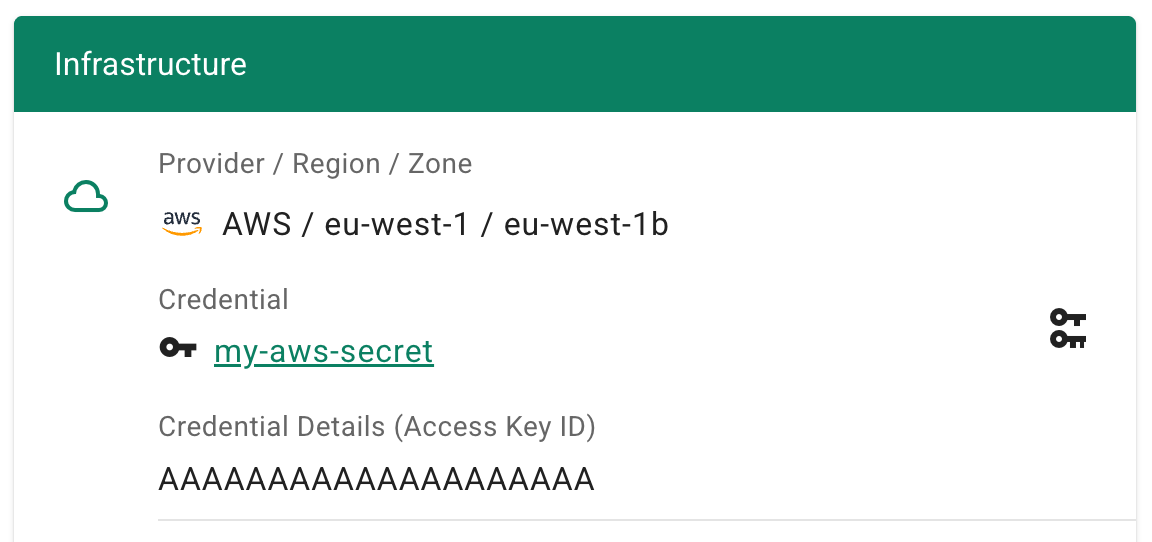
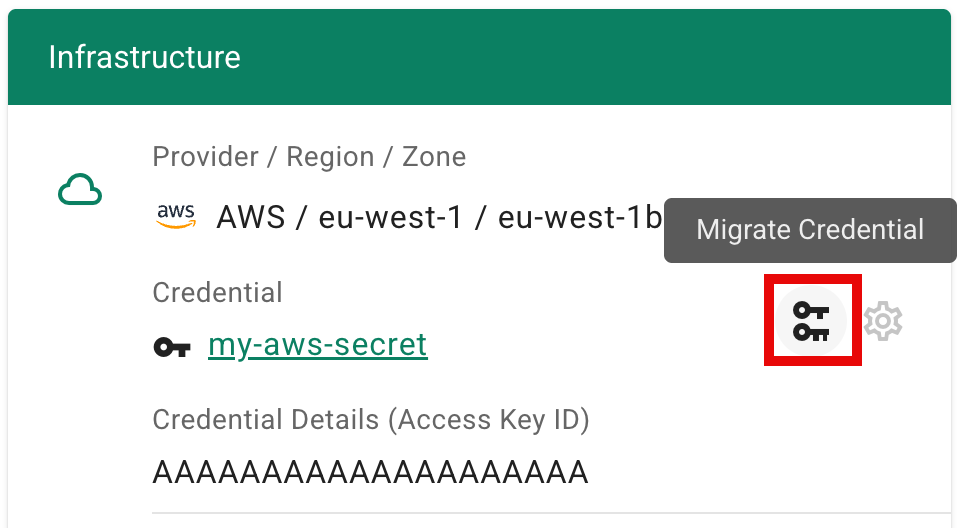
PR Feedback

diff --git a/frontend/src/components/Credentials/GSecretDialogMigration.vue b/frontend/src/components/Credentials/GSecretDialogMigration.vue
@@ -36,7 +36,7 @@ SPDX-License-Identifier: Apache-2.0
               <div class="d-flex align-center">
                 <div class="d-flex flex-column">
                   <v-chip
-                    v-tooltip:top="`Used by ${secretUsageCount} cluster${secretUsageCount === 1 ? '' : 's'}`"
+                    v-tooltip:top="'Deprecated SecretBinding that needs to be migrated'"
                     tile
                     color="primary"
                     class="my-1"
@@ -101,14 +101,14 @@ SPDX-License-Identifier: Apache-2.0
               variant="tonal"
             >
               <p>
-                The Secret referenced by this deprecated SecretBinding <code>{{ secretName }}</code> has been migrated and is referenced by the following CredentialsBindings:
+                Step 1 complete: The following CredentialsBindings reference the same Secret as this deprecated SecretBinding <code>{{ secretName }}</code>:
               </p>
               <v-chip
                 v-for="bindingName in credentialsBindingNamesForSecretBinding"
                 :key="bindingName"
                 class="mr-2"
                 size="small"
-                prepend-icon="mdi-key"
+                prepend-icon="mdi-key-outline"
               >
                 {{ bindingName }}
               </v-chip>
@@ -133,10 +133,17 @@ SPDX-License-Identifier: Apache-2.0
                 {{ name }}
               </v-chip>
               <p class="mt-2">
-                Please change these clusters to use a CredentialsBinding instead.
+                Step 2 required: Change these clusters to use a CredentialsBinding.
               </p>
               <p>
-                You can do this on the cluster details page using the migration button on the infrastructure card.
+                Follow
+                the
+                <g-external-link
+                  url="https://github.com/gardener/dashboard/blob/master/docs/usage/migrate-secret-bindings.md#step-2-migrate-clusters"
+                >
+                  Migrate Clusters
+                </g-external-link>
+                steps in the documentation.
               </p>
             </v-alert>
           </div>
@@ -197,16 +204,15 @@ import { useCredentialsBindingContext } from '@/composables/credential/useCreden
 import { errorDetailsFromError } from '@/utils/error' // adjust path
 
 const props = defineProps({
-  modelValue: {
-    type: Boolean,
-    required: true,
-  },
   binding: {
     type: Object,
   },
 })
 
-const emit = defineEmits(['update:modelValue'])
+const visible = defineModel({
+  type: Boolean,
+  required: true,
+})
 
 const logger = inject('logger')
 
@@ -216,7 +222,6 @@ const {
   resourceName: secretBindingName,
   credentialName: secretName,
   credentialNamespace: secretNamespace,
-  credentialUsageCount: secretUsageCount,
   providerType: secretProviderType,
   credentialsBindingNamesForSecretBinding,
   credentialUsageCount,
@@ -243,11 +248,6 @@ const detailedErrorMessage = ref()
 
 const createStep = computed(() => {
   return credentialsBindingNamesForSecretBinding.value.length === 0
-})
-
-const visible = computed({
-  get: () => props.modelValue,
-  set: value => emit('update:modelValue', value),
 })
 
 const title = computed(() => {

diff --git a/frontend/src/components/Credentials/GShootCredentialConfiguration.vue b/frontend/src/components/Credentials/GShootCredentialConfiguration.vue
@@ -32,7 +32,7 @@ SPDX-License-Identifier: Apache-2.0
               The CredentialsBinding must reference the same Secret as the currently used SecretBinding.
             </p>
             <p>
-              <g-external-link url="https://github.com/gardener/dashboard/blob/master/docs/usage/migrate-secret-bindings.md">
+              <g-external-link url="https://github.com/gardener/dashboard/blob/master/docs/usage/migrate-secret-bindings.md#migration-steps">
                 More Information
               </g-external-link>
             </p>
@@ -47,7 +47,7 @@ SPDX-License-Identifier: Apache-2.0
               There are no available CredentialsBindings to migrate to. Please create a CredentialsBinding that references the same Secret as the currently used SecretBinding before you can migrate.
             </p>
             <p>
-              <g-external-link url="https://github.com/gardener/dashboard/blob/master/docs/usage/migrate-secret-bindings.md">
+              <g-external-link url="https://github.com/gardener/dashboard/blob/master/docs/usage/migrate-secret-bindings.md#step-1-create-a-credentialsbinding-for-a-secretbinding">
                 More Information
               </g-external-link>
             </p>
@@ -143,6 +143,6 @@ function credentialFilterFn (credential) {
     return true
   }
   // shootCloudProviderBinding is a secret binding in migration mode
-  return shootCloudProviderBinding.value.secretRef.name === credential.credentialsRef.name
+  return shootCloudProviderBinding.value.secretRef.name === credential.credentialsRef.name && credential.credentialsRef.kind === 'Secret'
 }
 </script>

diff --git a/frontend/src/components/NewShoot/GNewShootDetails.vue b/frontend/src/components/NewShoot/GNewShootDetails.vue
@@ -171,12 +171,15 @@ export default {
 
     const kubernetesVersionRules = {
       required,
-      noSecreTbinding: withMessage('The selected version requires a CredentialsBinding. You can migrate your SecretBinding to a CredentialsBinding on the Credentials page', function (version) {
+      noSecretBindingForSelectedVersion: withMessage('The selected version requires a CredentialsBinding. You can migrate your SecretBinding to a CredentialsBinding on the Credentials page', function (version) {
         if (!version || !semver.valid(version)) {
           return true
         }
         const currentMinorVersion = semver.minor(version)
-        return !(!this.workerless && isSecretBinding(this.infrastructureBinding) && currentMinorVersion > 33)
+        const usesSecretBinding = isSecretBinding(this.infrastructureBinding)
+        const requiresCredentialsBinding = currentMinorVersion >= 34
+        const noSecretBindingForSelectedVersion = !this.workerless && usesSecretBinding && requiresCredentialsBinding
+        return !noSecretBindingForSelectedVersion
       }),
     }
     rules.kubernetesVersion = withFieldName('Kubernetes Version', kubernetesVersionRules)

diff --git a/frontend/src/components/ShootVersion/GShootVersionUpdate.vue b/frontend/src/components/ShootVersion/GShootVersionUpdate.vue
@@ -139,7 +139,7 @@ export default {
     const rules = {
       selectedItem: withFieldName('Kubernetes Version', {
         required,
-        noSecretBinding: withMessage('The selected version requires changes to your cluster before you can upgrade', function () {
+        noSecretBindingForSelectedVersion: withMessage('The selected version requires changes to your cluster before you can upgrade', function () {
           return !this.needsMigration
         }),
       }),

diff --git a/frontend/src/components/ShootDetails/GShootInfrastructureCard.vue b/frontend/src/components/ShootDetails/GShootInfrastructureCard.vue
@@ -50,7 +50,8 @@ SPDX-License-Identifier: Apache-2.0
             migration-mode
           />
           <g-credential-configuration
-            v-else
+            :disabled="!!shootSecretBindingName"
+            :tooltip="!!shootSecretBindingName ? 'Credential migration to a CredentialsBinding is required' : undefined"
           />
         </template>
       </g-list-item>

diff --git a/docs/usage/migrate-secret-bindings.md b/docs/usage/migrate-secret-bindings.md
@@ -13,9 +13,9 @@ Follow [this](https://github.com/gardener/gardener/blob/master/docs/usage/shoot-
     * [Important Version Change](#important-version-change)
     * [How to Distinguish Binding Types](#how-to-distinguish-binding-types)
   * [Migration Steps](#migration-steps)
-    * [Create a CredentialsBinding for a SecretBinding](#create-a-credentialsbinding-for-a-secretbinding)
-    * [Migrate Clusters](#migrate-clusters)
-    * [Cleanup](#cleanup)
+    * [Step 1: Create a `CredentialsBinding` for a `SecretBinding`](#step-1-create-a-credentialsbinding-for-a-secretbinding)
+    * [Step 2: Migrate Clusters](#step-2-migrate-clusters)
+    * [Step 3: Cleanup](#step-3-cleanup)
 
 
 
@@ -39,10 +39,10 @@ They are directly visible in the Dashboard.
 
 Infrastructure credentials are always created as a **pair**:
 
-1. A **CredentialsBinding** resource
-2. A referenced **Secret** or **WorkloadIdentity** resource
+1. A `CredentialsBinding` resource
+2. A referenced `Secret` or `WorkloadIdentity` resource
 
-The **CredentialsBinding** is the resource that is referenced by the Shoot cluster.
+The `CredentialsBinding` is the resource that is referenced by the Shoot cluster.
 
 The underlying `Secret` or `WorkloadIdentity`:
 
@@ -67,7 +67,13 @@ You can identify the binding type in the Dashboard:
 
 ## Migration Steps
 
-### Create a CredentialsBinding for a SecretBinding
+The migration consists of three steps:
+
+1. [Create a `CredentialsBinding` for each existing `SecretBinding`](#step-1-create-a-credentialsbinding-for-a-secretbinding).
+2. [Update all Shoots that still reference a `SecretBinding` to use the new `CredentialsBinding`](#step-2-migrate-clusters).
+3. [Delete old `SecretBinding` resources after all Shoots have been migrated](#step-3-cleanup).
+
+### Step 1: Create a `CredentialsBinding` for a `SecretBinding`
 
 On the **Credentials** page, SecretBindings now have an additional action button:
 
@@ -77,43 +83,35 @@ Clicking this button opens a dialog where you can create a new `CredentialsBindi
 
 When clicking **CREATE CREDENTIALSBINDING**:
 
-* The Dashboard attempts to create a `CredentialsBinding`
+* The Dashboard creates a `CredentialsBinding`
 * It uses the **same name** as the existing `SecretBinding`
 * It references the same underlying `Secret`
 
 <img width="600" src="../images/sb-migration-dialog-1.png">
 
-After successful creation, the dialog displays an overview of clusters that still need to be migrated.
-
-If:
-
-* A `CredentialsBinding` referencing the same Secret already exists, or
-* You reopen the dialog later,
-
-the dialog will show the current migration status.
+After creation, the dialog shows the current migration status, including an overview of clusters that still need to be migrated.
 
 <img width="600" src="../images/sb-migration-dialog-2.png">
 
-### Migrate Clusters
+### Step 2: Migrate Clusters
 
 After creating `CredentialsBinding` resources for your `SecretBindings`, you must update your Shoots.
 
 To migrate a Shoot:
 
-1. Open the **cluster details page**
-2. Click the button next to the credential information
+1. Navigate to the **cluster details page**
+2. Click the key-change icon button (**Migrate Credential**) next to the credential information
 3. A dialog opens where you can select a `CredentialsBinding`
 
 You can only select a `CredentialsBinding` that references the **same Secret** as the currently used `SecretBinding`.
-
-If no suitable binding is shown:
-
-* Ensure that you successfully created a `CredentialsBinding` for the corresponding `SecretBinding` on the **Credentials** page.
 
 <img width="600" src="../images/sb-migration-shoot-1.png">
 
 <img width="600" src="../images/sb-migration-shoot-2.png">
 
-## Cleanup
+> [!NOTE]
+> If no suitable binding is shown, ensure that you completed [Step 1](#step-1-create-a-credentialsbinding-for-a-secretbinding) and created a `CredentialsBinding` for the corresponding `SecretBinding` on the **Credentials** page.
 
-After all clusters referencing a specific `SecretBinding` have been migrated to use the corresponding `CredentialsBinding`, you can safely delete the old `SecretBinding`.
+### Step 3: Cleanup
+
+If a `SecretBinding` is no longer referenced by any Shoots because they were migrated to use a `CredentialsBinding`, it can be safely deleted.
